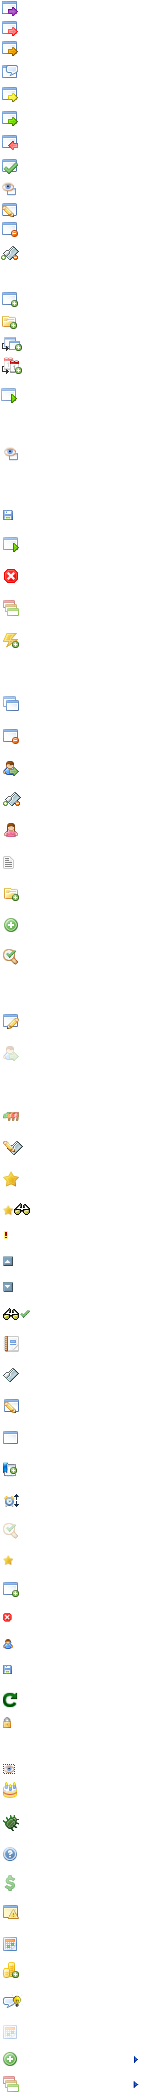
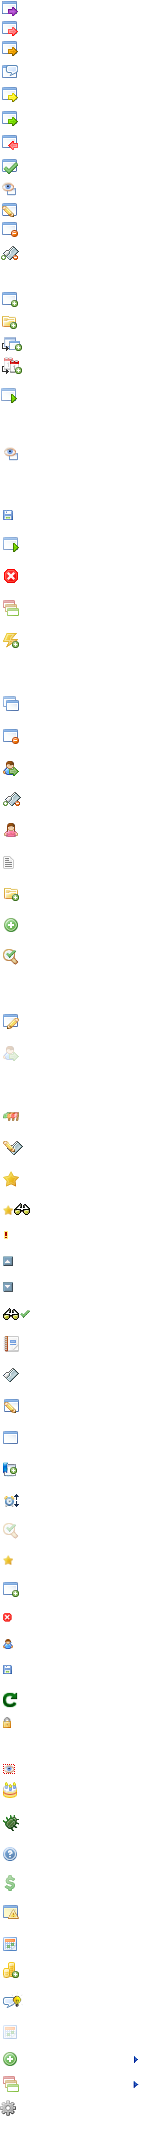
* added wizards for form-fields

Changed region(s): [[0.0, 0.0, 0.1867, 1.0], [0.88, 0.9595, 0.9067, 1.0]]

diff --git a/core/assets/js/Form.js b/core/assets/js/Form.js
@@ -19,9 +19,9 @@
 ***************************************************************/
 
 Todoyu.Form = {
-	
+
 	subFormIndex: 100,
-	
+
 	getNextIndex: function() {
 		return this.subFormIndex++;
 	},
@@ -50,7 +50,7 @@ Todoyu.Form = {
 	 */
 	toggleRecordForm: function(idRecord, fieldName, index)	{
 		var idForm = 'foreignrecord-' + idRecord + '-' + fieldName + '-' + index + '-formhtml';
-		
+
 		if( Todoyu.exists(idForm) ) {
 			$(idForm).toggle();
 		}
@@ -64,15 +64,15 @@ Todoyu.Form = {
 	 */
 	removeRecord: function(idRecord, fieldName, index) {
 		var idElement	= 'foreignrecord-' + idRecord + '-' + fieldName + '-' + index;
-		
+
 		$(idElement).remove();
-				
+
 		/*
 		Effect.BlindUp(idElement);
-		
+
 		$(idElement).remove.delay(1);
-		
-		
+
+
 		, {
 			'scaleMode': 'contents',
 			'afterFinish': function(){
@@ -81,10 +81,10 @@ Todoyu.Form = {
 			}
 		});
 		*/
-				
+
 	},
-	
-	
+
+
 	/**
 	 * Add a new record
 	 * @param	Integer		idRecord
@@ -96,7 +96,7 @@ Todoyu.Form = {
 	addRecord: function(idRecord, formName, fieldName, updateExt, updateController) {
 		var container	= $('foreignrecords-' + idRecord + '-' + fieldName);
 		var index		= this.getNextIndex();
-		
+
 		var url 	= Todoyu.getUrl(updateExt, updateController);
 		var options = {
 			'parameters': {
@@ -111,9 +111,9 @@ Todoyu.Form = {
 
 		Todoyu.Ui.insert(container, url, options);
 	},
-	
-	
-	
+
+
+
 	/**
 	 * Callback when new record added
 	 * @param	Integer		idRecord
@@ -126,9 +126,9 @@ Todoyu.Form = {
 		this.toggleRecordForm(idRecord, fieldName, index);
 		this.focusFirstRecordField(idRecord, fieldName, index);
 	},
-	
-	
-	
+
+
+
 	/**
 	 * Focus first record field
 	 * @param	Integer		idRecord
@@ -137,7 +137,7 @@ Todoyu.Form = {
 	 */
 	focusFirstRecordField: function(idRecord, fieldName, index) {
 		var field	= $('foreignrecord-' + idRecord + '-' + fieldName + '-' + index + '-formhtml').select('input', 'select', 'textarea').first();
-		
+
 		if( field )  {
 			field.focus();
 		}
@@ -162,8 +162,30 @@ Todoyu.Form = {
 			}
 		});
 
+	},
+
+
+
+	/**
+	 *	Expand all foreign records in a form
+	 *
+	 *	@param	unknown_type	buttonID
+	 */
+	openWizard: function(idRecord, idField, extension, controller, command, height, width, title)	{
+		var url		= Todoyu.getUrl(extension,	controller);
+		var options	= {
+			'parameters': {
+				'cmd': command,
+				'idRecord': idRecord,
+				'idField': idField
+			}
+		};
+		var idPopup	= 'popup-'+idField;
+		var title	= title ? title : 'Form Wizard';
+		var width	= width > 0 ? width : 480;
+		var height	= height > 0 ? height: 300;
+
+		Todoyu.Popup.openWindow(idPopup, title, width, height, 0, 0, url, options);
 	}
-
-
 
 };

diff --git a/core/assets/css/form.css b/core/assets/css/form.css
@@ -462,3 +462,12 @@ label.narrowInput {
 	top: 7px;
 	right: 7px;
 }
+
+.fField span.wizardIcon  {
+	height: 16px;
+	width: 16px;
+	display: block;
+	float: right;
+	background: transparent url(../img/icons_dev.png) no-repeat 0 -2100px;
+}
+

diff --git a/core/form/TodoyuFormElement.class.php b/core/form/TodoyuFormElement.class.php
@@ -165,6 +165,7 @@ abstract class TodoyuFormElement implements TodoyuFormElementInterface {
 		$this->config['required']		= $this->hasAttribute('required');
 		$this->config['hasErrorClass']	= $this->hasAttribute('hasError') ? 'fieldHasError':'';
 		$this->config['hasIconClass']	= $this->hasAttribute('hasIcon') ? 'hasIcon icon' . ucfirst($this->name):'';
+		$this->config['wizard']			= $this->getWizardConfiguration();
 
 		return $this->config;
 	}
@@ -493,6 +494,28 @@ abstract class TodoyuFormElement implements TodoyuFormElementInterface {
 	}
 
 
+
+	/**
+	 * Returns Form field wizard configurations
+	 *
+	 * @return	Array
+	 */
+	public function getWizardConfiguration()	{
+		if($this->hasAttribute('wizard'))	{
+			$wizardConf = array(
+				'hasWizard'		=> true,
+				'wizardConf'	=> $this->getAttribute('wizard')
+			);
+
+			$wizardConf['wizardConf']['idRecord']	= intval($this->getForm()->getRecordID());
+
+			if($wizardConf['wizardConf']['displayCondition'])	{
+				$wizardConf['hasWizard'] = TodoyuDiv::callUserFunctionArray($wizardConf['wizardConf']['displayCondition'], $wizardConf);
+			}
+		}
+
+		return $wizardConf;
+	}
 }
 
 ?>
